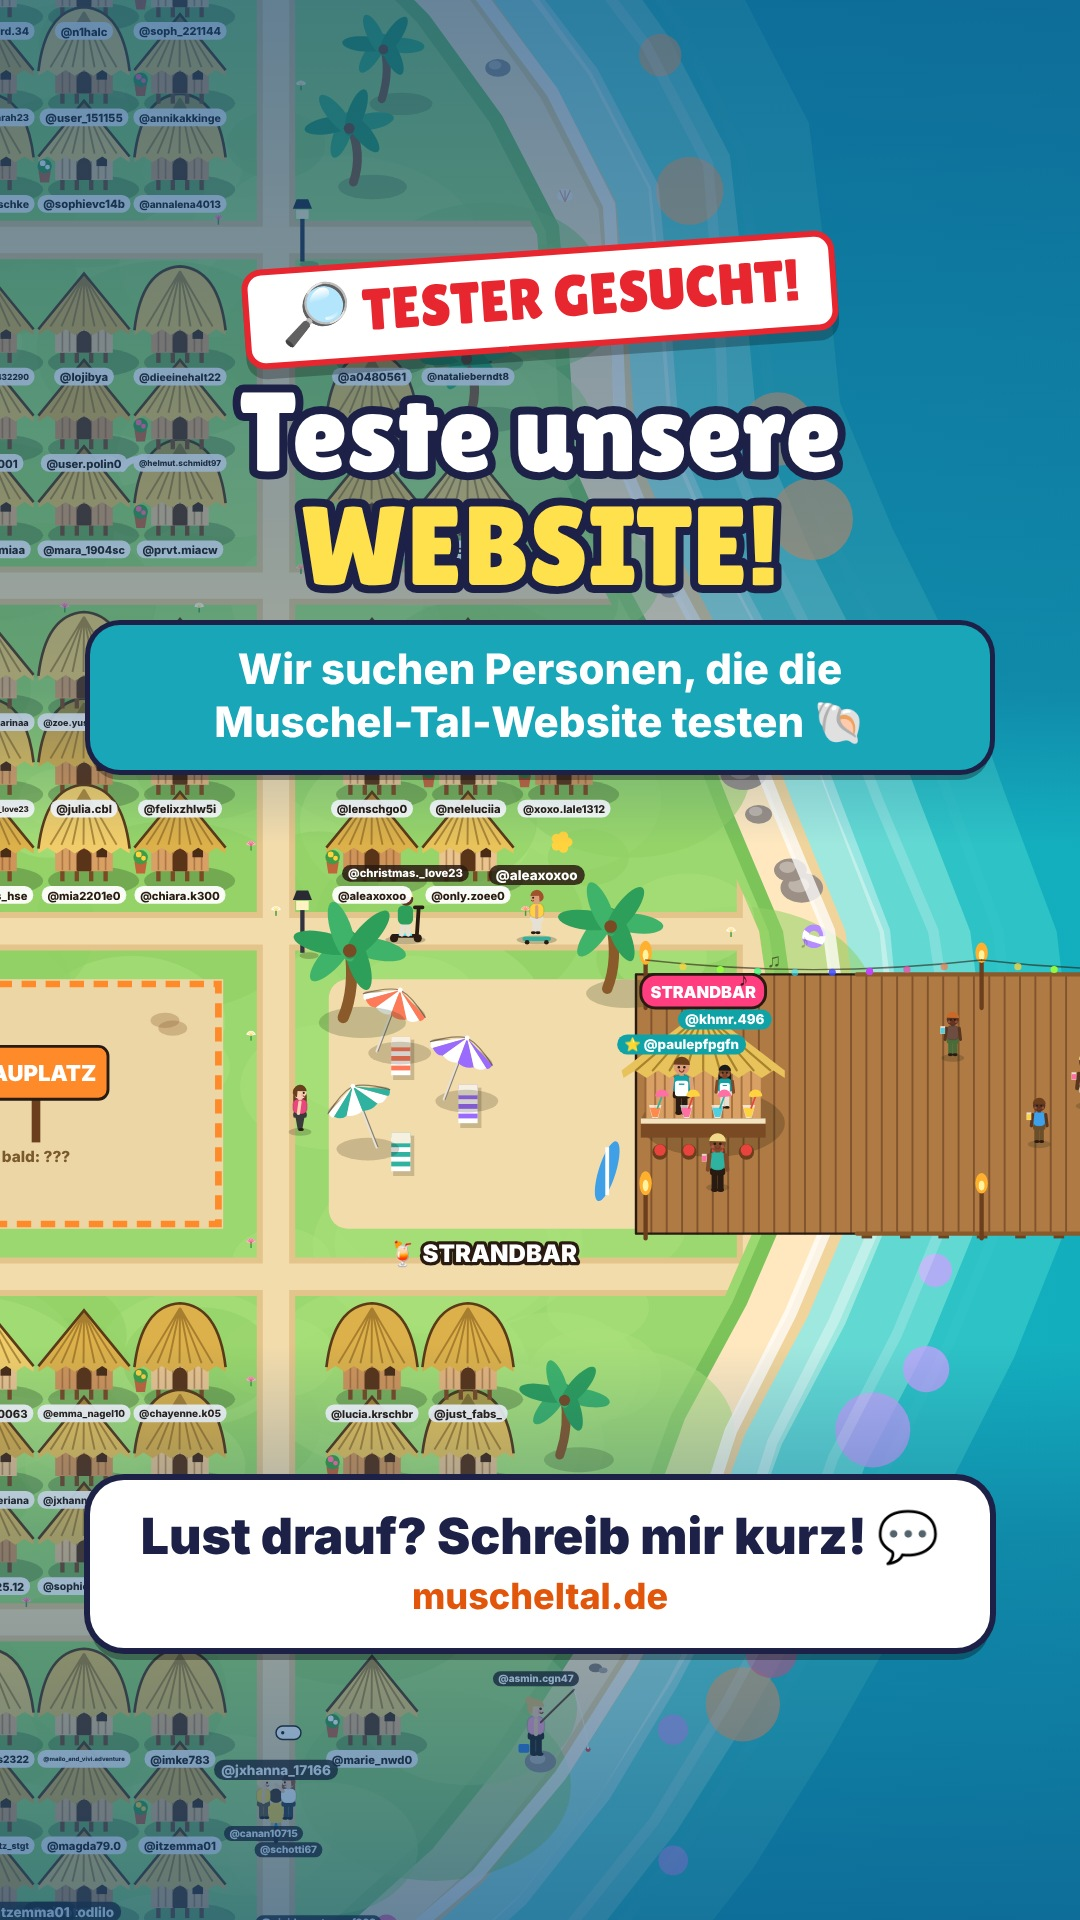
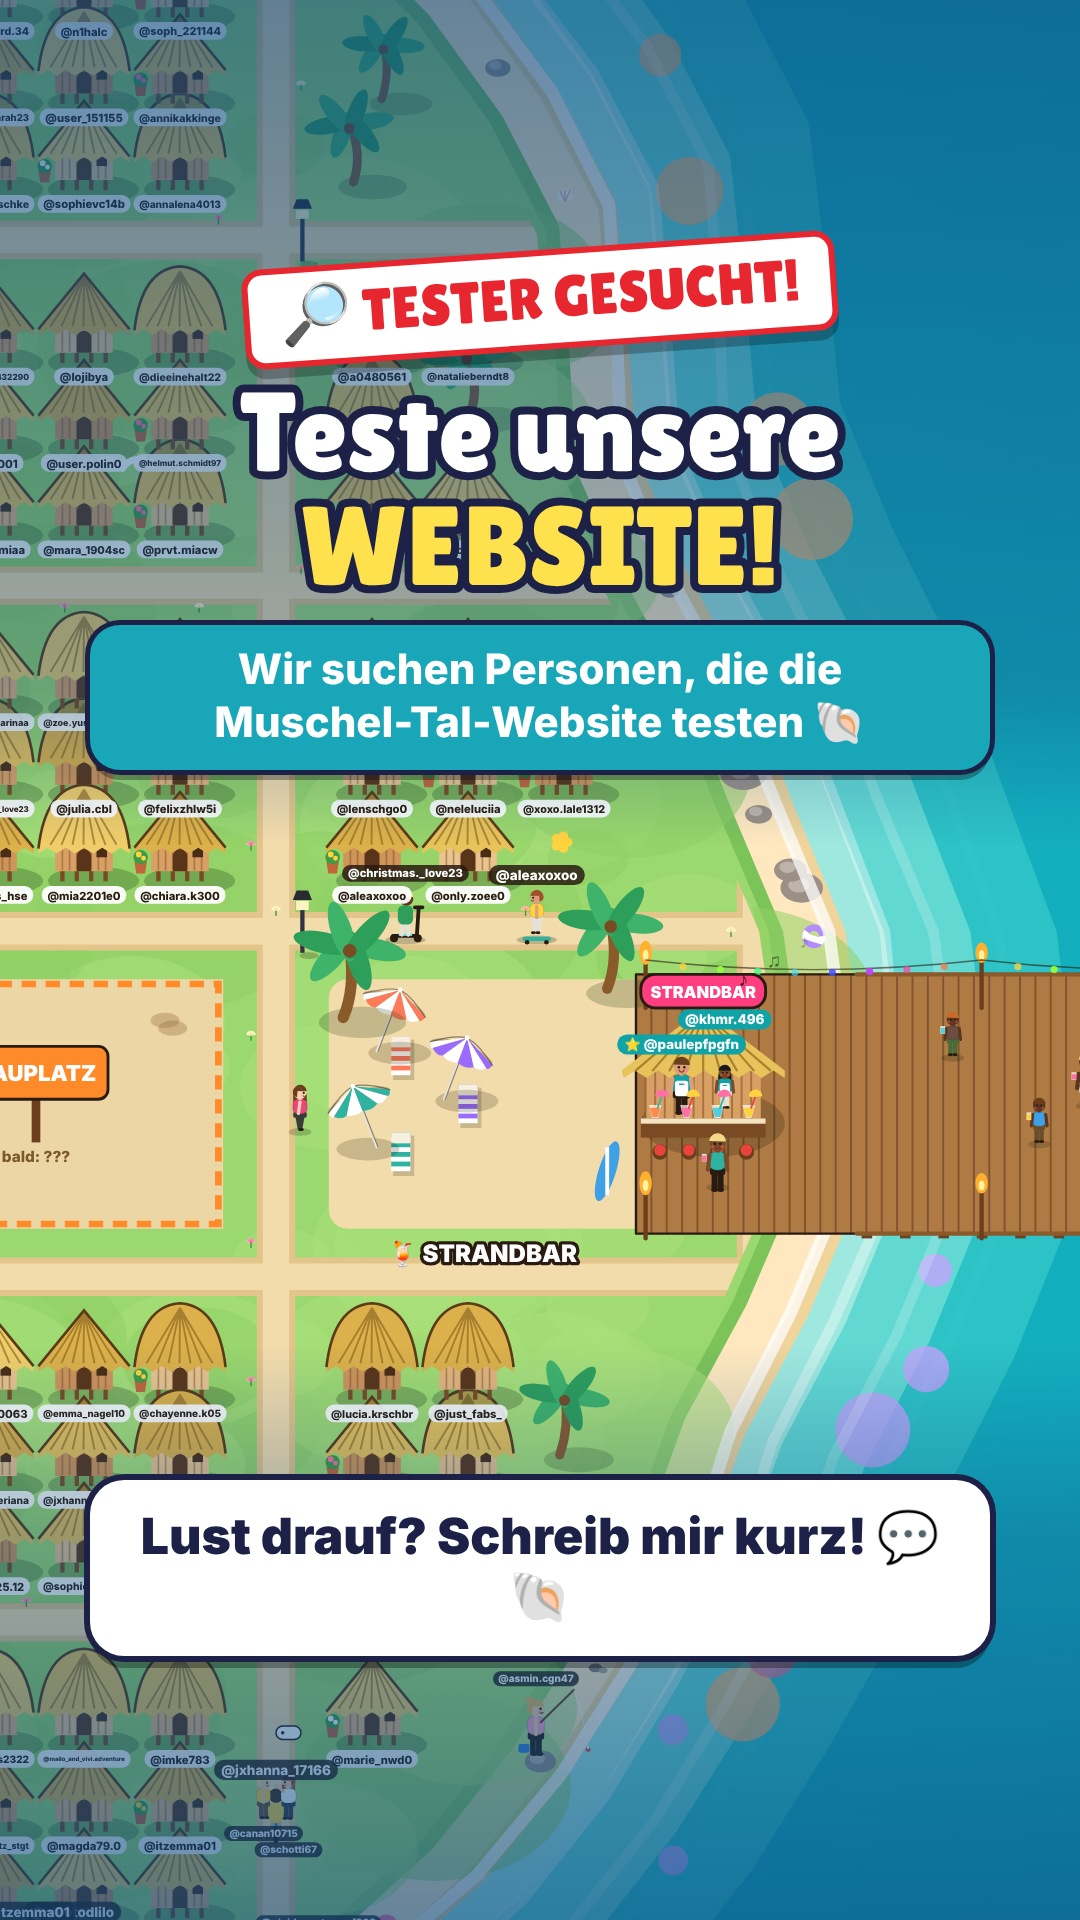
Story-Bild Website-Tester: ohne Homepage-Adresse
Claude-Session: https://claude.ai/code/session_01McNdgWwqfWZ56Gqk3h71JF

Changed region(s): [[0.0611, 0.8125, 0.9167, 0.875]]

diff --git a/videos/muscheltal-story-webtester/story.html b/videos/muscheltal-story-webtester/story.html
@@ -15,5 +15,5 @@
 <div class="c stamp">🔎 TESTER GESUCHT!</div>
 <div class="c h">Teste unsere<br><b>WEBSITE!</b></div>
 <div class="c sub">Wir suchen Personen, die die<br>Muschel-Tal-Website testen 🐚</div>
-<div class="c card">Lust drauf? Schreib mir kurz! 💬<small>muscheltal.de</small></div>
+<div class="c card">Lust drauf? Schreib mir kurz! 💬🐚</div>
 </body></html>
